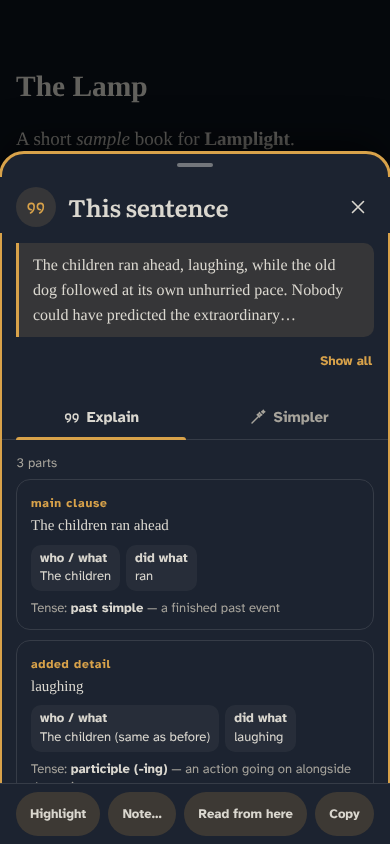
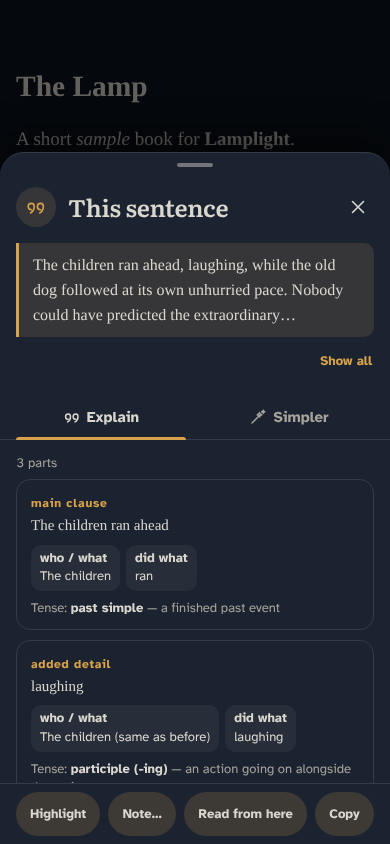
Fix review findings for Task 12: the explain card's pictures show the card at rest, and the README names the Contrast look for a first run
simplify.png and explain-phone.png showed the explain card's keyboard
focus ring: the card takes the focus as it opens, and a page driven by
script shows the ring. The card's sticky head and foot paint over it, so
it read as a border broken at both ends. tests/screenshots.js now takes
the focus away before those two pictures, as it does before themes.png;
the remade pictures differ from the last ones only in the ring.

The about picture now waits until the panel has given the focus (to its
first control, its body or its close button, by how far the analysis of
the text has got) and then takes it away, so the body's ring no longer
comes and goes between runs. about.png comes out the same as the
committed one, in three runs.

The README said a device that asks for more contrast starts "in
Contrast", the white day theme's name; on a dark phone it starts on
Contrast dark. It now starts "on the Contrast look".

tests/themes.js: 12 themes, 281/281 pairs pass.

Claude-Session: https://claude.ai/code/session_01S84CT7SXHnTF63as5uaRsZ

diff --git a/tests/screenshots.js b/tests/screenshots.js
@@ -196,6 +196,8 @@ const STATS = (() => {
       window.llDict.explainSentence(t.slice(i, j), { start: i, end: j });
     });
     await page.waitForTimeout(2500);
+    /* the card takes the focus as it opens, for a keyboard; the picture shows it at rest */
+    await page.evaluate(() => document.activeElement && document.activeElement.blur());
     await shot(page, "explain-phone");
     await ctx.close();
   }
@@ -215,6 +217,8 @@ const STATS = (() => {
     await page.waitForTimeout(1200);
     await page.evaluate(() => { const b = document.querySelector('#simpLevels [data-l="kid"]'); if (b) b.click(); });
     await page.waitForTimeout(1600);
+    /* the card took the focus as it opened, for a keyboard; the picture shows it at rest */
+    await page.evaluate(() => document.activeElement && document.activeElement.blur());
     await shot(page, "simplify");
     await ctx.close();
   }
@@ -236,6 +240,11 @@ const STATS = (() => {
     await theme(page, "sage");
     await page.keyboard.press("i");
     await page.waitForFunction(() => /Flesch/.test(document.getElementById("sideBody").textContent), null, { timeout: 40000 });
+    /* a moment after it opens, the panel gives the focus, for a keyboard, to its first control, its body
+       or its close button, by how far the analysis of the text has got; the picture shows the panel at
+       rest, so the focus is let land and then taken away */
+    await page.waitForFunction(() => document.getElementById("side").contains(document.activeElement));
+    await page.evaluate(() => document.activeElement.blur());
     await shot(page, "about");
     await ctx.close();
   }

diff --git a/README.md b/README.md
@@ -49,7 +49,7 @@ Lamplight is a progressive web app made of plain static files: no server, no acc
 - **Made for one hand on a phone**: while a book is open the screen is the text, with no bar at the top. A slim strip at the foot holds the time left in the chapter and the **lamp**, a round button ringed with how far you are through the book. Tap the lamp and the **dock** rises, in reach of the thumb: back to the library, the **book's title** with the chapter under it (tap it to switch between open books), Search, a slider to any page, a **Day / Night** switch, and Contents, Text, Read aloud, Theme and More, each named under its icon. A tap outside, a swipe down or Escape puts it away. Hold Read aloud for the voices. Books are named by **their own title** — an EPUB's metadata, the first heading of a Markdown, HTML or DOCX file, a DOCX's document title — in the bar, the tabs, the library, the *Up next* card and the journal, falling back to the file name without its extension.
 - Opens **PDF, EPUB, DOCX, TXT, Markdown and HTML**. Saved web pages are reduced to clean reader text (menus, cookie banners, share bars and ads stripped).
 - **Scroll** or **Pages** flow (tap the left or right edge, or swipe sideways, to turn); two pages side by side on wide screens, for PDFs too. In Pages flow a swipe down — or a tap on the top or bottom edge of the page — brings the bars back and a swipe up hides them; on a phone, which has no bars, a swipe up or a tap on blank space in the middle or at the foot of the page opens the dock. Tapping a word in the middle of the page always looks it up.
-- **Twelve themes in six looks** — Day & Dusk, Paper & Ink, Sepia & Cocoa, Sage & Forest, Sea air & Canals, and Contrast — each a day theme and a night theme, every one checked for 4.5:1 text contrast. One tap on a look sets both, and the **Day / Night** switch at the head of the theme picker (and in the phone's dock), `t` or a hold on the lamp moves between them without changing the pair. **Day and night** follows the phone's dark mode from the first run (*Follow phone*; a device that asks for more contrast starts in Contrast), or keeps a night schedule, and a switch by hand while it is on lasts until its next change. Your own themes sit under *Mine*, and *Settings › Theme* can pair any day theme with any night theme.
+- **Twelve themes in six looks** — Day & Dusk, Paper & Ink, Sepia & Cocoa, Sage & Forest, Sea air & Canals, and Contrast — each a day theme and a night theme, every one checked for 4.5:1 text contrast. One tap on a look sets both, and the **Day / Night** switch at the head of the theme picker (and in the phone's dock), `t` or a hold on the lamp moves between them without changing the pair. **Day and night** follows the phone's dark mode from the first run (*Follow phone*; a device that asks for more contrast starts on the Contrast look), or keeps a night schedule, and a switch by hand while it is on lasts until its next change. Your own themes sit under *Mine*, and *Settings › Theme* can pair any day theme with any night theme.
 - **Themes of your own**: *New theme* under *Mine* starts one from the colours on screen, with a live preview that keeps it readable; once saved, it takes the place of the theme on screen, as your day or your night theme. *Settings › Theme* edits the one on screen: colour pickers with hex fields for the background, text, accent and (under Advanced) the panel and secondary text, quick swatches and tint / brightness sliders, and a **live contrast meter** that rates every pairing AAA / AA / Low and can fix a failing colour in one tap. Keep **as many as you like** (rename, duplicate, save as new, delete). The installed app's title bar follows the theme.
 - **Twenty-four fonts** in four groups — easy reading (**OpenDyslexic**, **Lexend**, **Atkinson Hyperlegible**, **Andika**), serif (Georgia, Palatino, Times, Literata, Source Serif, Lora, Merriweather, EB Garamond, Crimson Pro, Libre Baskerville, Bitter), sans (system, Helvetica / Arial, Verdana, Inter, IBM Plex Sans, Nunito) and mono (system, JetBrains Mono, IBM Plex Mono). Sixteen families are bundled as compact woff2 files and **loaded only when chosen**; the *Browse fonts…* panel shows each name in its own face. Text size, line spacing, column width, margins, justification and hyphenation; every size is in `rem`, so the phone's font-size setting scales the whole app.
 - **Songs in the book**: a chapter that opens on its song — `♪ “To Build a Home” — The Cinematic Orchestra`, `Song “Eye of the Tiger” — Survivor`, `Now playing: …`, `Nu speelt: …` and the like, in an EPUB, DOCX, HTML, Markdown or TXT book — becomes a soft pill you can tap to **play it in Spotify** (the app, else the web player); hold it for YouTube Music, Apple Music or to copy the name. A player drawn after it (◁◁ II ▷▷, ━━━●────, 1:32 / 3:45) is left out, and ordinary dialogue (“Hello,” — said Anna) is not mistaken for a song. **Soundtrack** in the menu lists every song in book order with its chapter, a jump to it and *Copy list* for a playlist. Read aloud says “Song: Eye of the Tiger, by Survivor”. The text itself is never changed, so positions, highlights and notes stay put.
